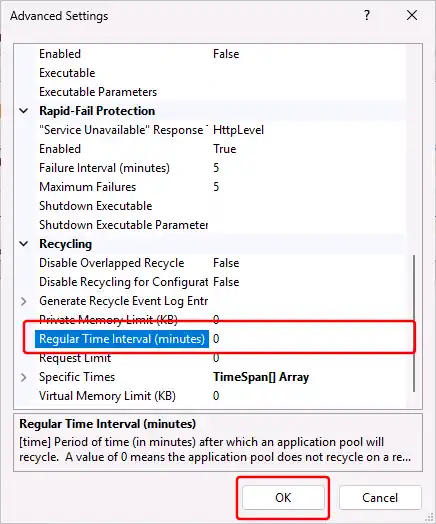
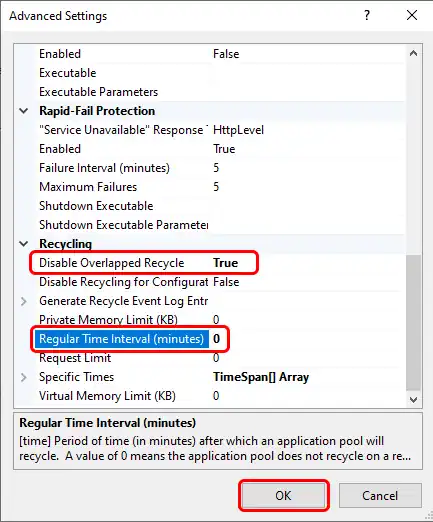
x

diff --git a/docs/1-how-to-install-owncdn-as-an-iis-web-site.md b/docs/1-how-to-install-owncdn-as-an-iis-web-site.md
@@ -5,14 +5,13 @@ category: 1
 
 1. First [install IIS (Internet Information Services)](12-how-to-enable-iis-on-windows-server.md), and make sure to enable the "Application Initialization" feature (Web Server Role (IIS) / Application Development / Application Initialization).
 
-2. Download and install the latest "ASP.NET Core Runtime 9.x - Hosting Bundle" from  https://dotnet.microsoft.com/en-us/download/dotnet/9.0  
-Make sure to select the "Hosting Bundle" file:  
-  
+2. Download and install the latest "ASP.NET Core Runtime 10.x - Hosting Bundle" from  https://dotnet.microsoft.com/en-us/download/dotnet/10.0  
+Make sure to select the **"Hosting Bundle"** file.  
+Run the "dotnet-hosting-10.0.xxx-win.exe" file.
+
     ![](img/1/0.webp)
 
-    Run the "dotnet-hosting-9.0.xxx-win.exe" file.
-
-    > [!IMPORTANT] The "ASP.NET Core Runtime 9.x - Hosting Bundle" must only be installed **AFTER** IIS is installed (see step 1).
+    > [!IMPORTANT] The "ASP.NET Core Runtime 10.x - Hosting Bundle" must only be installed **AFTER** IIS is installed (see step 1).
 
 3. Download the version of OwnCDN meant for running under IIS (owncdn-x-x-x-iis.zip) from <https://owncdn.com/download> 
 
@@ -42,7 +41,7 @@ Under "Process Model", change "Idle Time-out (minutes)" to "0" (to prevent shutt
 
     ![](img/1/4.webp)
 
-9. Scroll down, and under "Recycling", change "Regular Time Interval (minutes)" to "0" (to prevent periodic recycling), and click the "OK" button:
+9. Scroll down, and under "Recycling", change "Disable Overlapped Recycle" to "True" (to prevent IIS from starting multiple instances of OwnCDN with the same data folder - which would fail), and change "Regular Time Interval (minutes)" to "0" (to prevent periodic recycling), and click the "OK" button:
 
     ![](img/1/5.webp)
 

diff --git a/docs/9-how-to-get-started-with-owncdn.md b/docs/9-how-to-get-started-with-owncdn.md
@@ -5,7 +5,7 @@ Category: 1
 
 ## Run under IIS
 
-The best way to run OwnCDN **in production** is as a web-site under IIS. This gives you all the features of IIS, such as running multiple web-sites on the same IP / port, SSL management, etc., and it is more performant that routing requests thorugh some kind of reverse proxy.
+The best way to run OwnCDN **in production** is as a web-site under IIS. This gives you all the features of IIS, such as running multiple web-sites on the same IP / port, SSL management, etc., and it is more performant than routing requests through some kind of reverse proxy.
 
 See [How to install OwnCDN as an IIS web-site](1-how-to-install-owncdn-as-an-iis-web-site.md)
 
@@ -13,5 +13,5 @@ See [How to install OwnCDN as an IIS web-site](1-how-to-install-owncdn-as-an-iis
 
 If you just want to quickly test out OwnCDN without a lot of configuration, you can download the command line version of OwnCDN. This is a self-contained program which requires no install or configuration. Simply download and extract the .zip file, and run owncdn.exe from a command line.
 
-See [How to run OwnCDN from the command line](13-how-to-run-owncdn-command-line.md)
+See [How to run OwnCDN from the command line](13-how-to-run-owncdn-from-the-command-line.md)
 

diff --git a/docs/8-how-to-set-localtion-of-data-files.md b/docs/8-how-to-set-localtion-of-data-files.md
@@ -7,7 +7,7 @@ Category: 1
 
 By default, OwnCDN stores its data files in a "data" sub-folder under the folder from where OwnCDN is installed (where the "OwnCDN.exe" file is).
 
-This can be changed by updating the "data_dir" setting in the "appsettings.json" file, by setting the environment variable "DATA_DIR", or by using the `--data_dir` command line option (when running from the command line):
+This can be changed by updating the "data_dir" setting in the "appsettings.json" file, by setting the environment variable "DATA_DIR", or by using the `--data_dir` command line option (when [running from the command line](13-how-to-run-owncdn-from-the-command-line.md)):
 
 ## Using "appsettings.json"
 

diff --git a/docs/14-how-to-enable-iis-on-windows-10-11.md b/docs/14-how-to-enable-iis-on-windows-10-11.md
@@ -6,7 +6,7 @@ vname: Windows 10/11
 # How to enable IIS on Windows 10 / 11
 
 > [!Note] Concurrent connections are limited for IIS on Windows Client OS versions.  
-> This affects how many clients use access OwnCDN at the same time. [Click here](https://learn.microsoft.com/en-us/iis/troubleshoot/request-restrictions) for details. 
+> This affects how many clients can access OwnCDN at the same time. [Click here](https://learn.microsoft.com/en-us/iis/troubleshoot/request-restrictions) for details. 
 
 > [!Note] The following screenshots are from Windows 11 (late 2025). Things look a bit different on Windows 10 but generally have the same names.
 

diff --git a/docs/11-how-to-reset-the-ui-password.md b/docs/11-how-to-reset-the-ui-password.md
@@ -3,7 +3,7 @@ Category: 1
 ---
 # How to reset the UI password
 
-If you have lost / forgotten the UI password for your OwnCDN installation, you can reset this by opening the "OwnCDN.config.json" file (in the data folder) with a text editor, delete the "PWHash" line, re-save the file, and then restart OwnCDN.
+If you have lost / forgotten the UI password for your OwnCDN installation, you can reset this by opening the "OwnCDN.config.json" file (in the [data folder](8-how-to-set-localtion-of-data-files.md)) with a text editor, delete the "PWHash" line, re-save the file, and then restart OwnCDN.
 
 ![](img/11/1.webp)
 

diff --git a/docs/13-how-to-run-owncdn-from-the-command-line.md b/docs/13-how-to-run-owncdn-from-the-command-line.md
@@ -55,7 +55,7 @@ You can specify the endpoint that OwnCDN should listen for HTTP requests on like
 
 `owncdn.exe --urls http://127.0.0.1:12345`
 
-For more details see [Configure endpoints for the ASP.NET Core Kestrel web server](https://learn.microsoft.com/en-us/aspnet/core/fundamentals/servers/kestrel/endpoints?view=aspnetcore-9.0#configure-endpoints)
+For more details see [Configure endpoints for the ASP.NET Core Kestrel web server](https://learn.microsoft.com/en-us/aspnet/core/fundamentals/servers/kestrel/endpoints?view=aspnetcore-10.0#configure-endpoints)
 
 ## Use alternate data location
 

diff --git a/docs/10-error-reports.md b/docs/10-error-reports.md
@@ -3,7 +3,7 @@ Category: 1
 ---
 # Error Reports
 
-If the unexpected happens, and OwnCDN crashes, it will attempt to send a notification and to write a detailed error report file to a "_Crash_Reports" folder under the data folder.
+If the unexpected happens and OwnCDN crashes, it will attempt to send a notification and to write a detailed error report file to a "_Crash_Reports" folder under the data folder.
 
 The error report file is named "YYYYMMDDHHMMSS-######.txt" based on the date and time that the crash happened.
 
